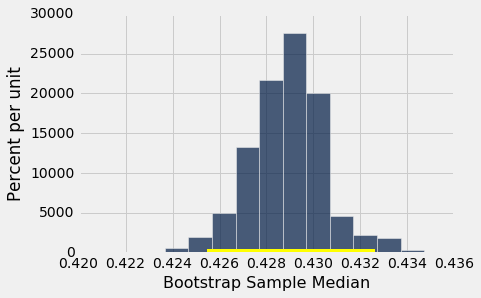
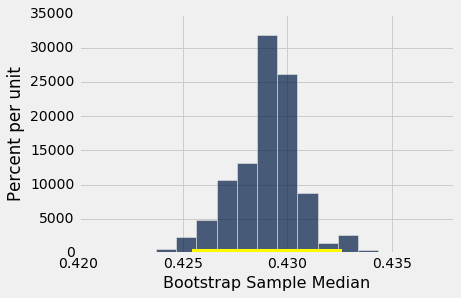
Build notebooks

diff --git a/notebooks-html/Confidence_Intervals.html b/notebooks-html/Confidence_Intervals.html
@@ -293,7 +293,7 @@ $$</div></div>
 <span class="n">make_array</span><span class="p">(</span><span class="n">left</span><span class="p">,</span> <span class="n">right</span><span class="p">)</span>
 </pre></div></div></div>
 <div class="output_text output_subarea output_execute_result">
-<pre>array([ 26.90204429,  27.55962521])</pre></div>
+<pre>array([ 26.89778535,  27.55962521])</pre></div>
 <div class="inner_cell">
 <div class="text_cell_render border-box-sizing rendered_html">
 <p>The 95% confidence interval goes from about 26.9 years to about 27.6 years. That is, we are estimating that the average age of the mothers in the population is somewhere in the interval 26.9 years to 27.6 years.</p>
@@ -329,12 +329,12 @@ $$</div></div>
 <h3 id="An-80%-Confidence-Interval">An 80% Confidence Interval<a class="anchor-link" href="#An-80%-Confidence-Interval">¶</a></h3><p>You can use the bootstrapped sample means to construct an interval of any level of confidence. For example, to construct an 80% confidence interval for the mean age in the population, you would take the "middle 80%" of the resampled means. So you would want 10% of the disribution in each of the two tails, and hence the endpoints would be the 10th and 90th percentiles of the resampled means.</p></div></div>
 <div class="inner_cell">
     <div class="input_area">
-<div class=" highlight hl-ipython3"><pre><span></span><span class="n">left_80</span> <span class="o">=</span> <span class="n">percentile</span><span class="p">(</span><span class="mi">20</span><span class="p">,</span> <span class="n">bstrap_means</span><span class="p">)</span>
+<div class=" highlight hl-ipython3"><pre><span></span><span class="n">left_80</span> <span class="o">=</span> <span class="n">percentile</span><span class="p">(</span><span class="mi">10</span><span class="p">,</span> <span class="n">bstrap_means</span><span class="p">)</span>
 <span class="n">right_80</span> <span class="o">=</span> <span class="n">percentile</span><span class="p">(</span><span class="mi">90</span><span class="p">,</span> <span class="n">bstrap_means</span><span class="p">)</span>
 <span class="n">make_array</span><span class="p">(</span><span class="n">left_80</span><span class="p">,</span> <span class="n">right_80</span><span class="p">)</span>
 </pre></div></div></div>
 <div class="output_text output_subarea output_execute_result">
-<pre>array([ 27.08517888,  27.45144804])</pre></div>
+<pre>array([ 27.01192504,  27.439523  ])</pre></div>
 <div class="inner_cell">
     <div class="input_area">
 <div class=" highlight hl-ipython3"><pre><span></span><span class="n">resampled_means</span><span class="o">.</span><span class="n">hist</span><span class="p">(</span><span class="n">bins</span><span class="o">=</span><span class="mi">15</span><span class="p">)</span>
@@ -344,7 +344,7 @@ $$</div></div>
 <img src="/notebooks-images/Confidence_Intervals_36_0.png"/></div>
 <div class="inner_cell">
 <div class="text_cell_render border-box-sizing rendered_html">
-<p>This 80% confidence interval is much shorter than the 95% confidence interval. It only goes from about 27.1 years to about 27.4 years. While that's a tight set of estimates, you know that this process only produces a good interval about 80% of the time.</p>
+<p>This 80% confidence interval is much shorter than the 95% confidence interval. It only goes from about 27.0 years to about 27.4 years. While that's a tight set of estimates, you know that this process only produces a good interval about 80% of the time.</p>
 <p>The earlier process produced a wider interval but we had more confidence in the process that generated it.</p>
 <p>To get a narrow confidence interval at a high level of confidence, you'll have to start with a larger sample. We'll see why in the next chapter.</p></div></div>
 <div class="inner_cell">
@@ -434,8 +434,4 @@ $$</div></div>
 <li>The original sample is very small, say less than 10 or 15.</li>
 </ul>
 </li>
-</ul></div></div>
-<div class="inner_cell">
-    <div class="input_area">
-<div class=" highlight hl-ipython3"><pre><span></span> 
-</pre></div></div></div></div>
+</ul></div></div></div>
